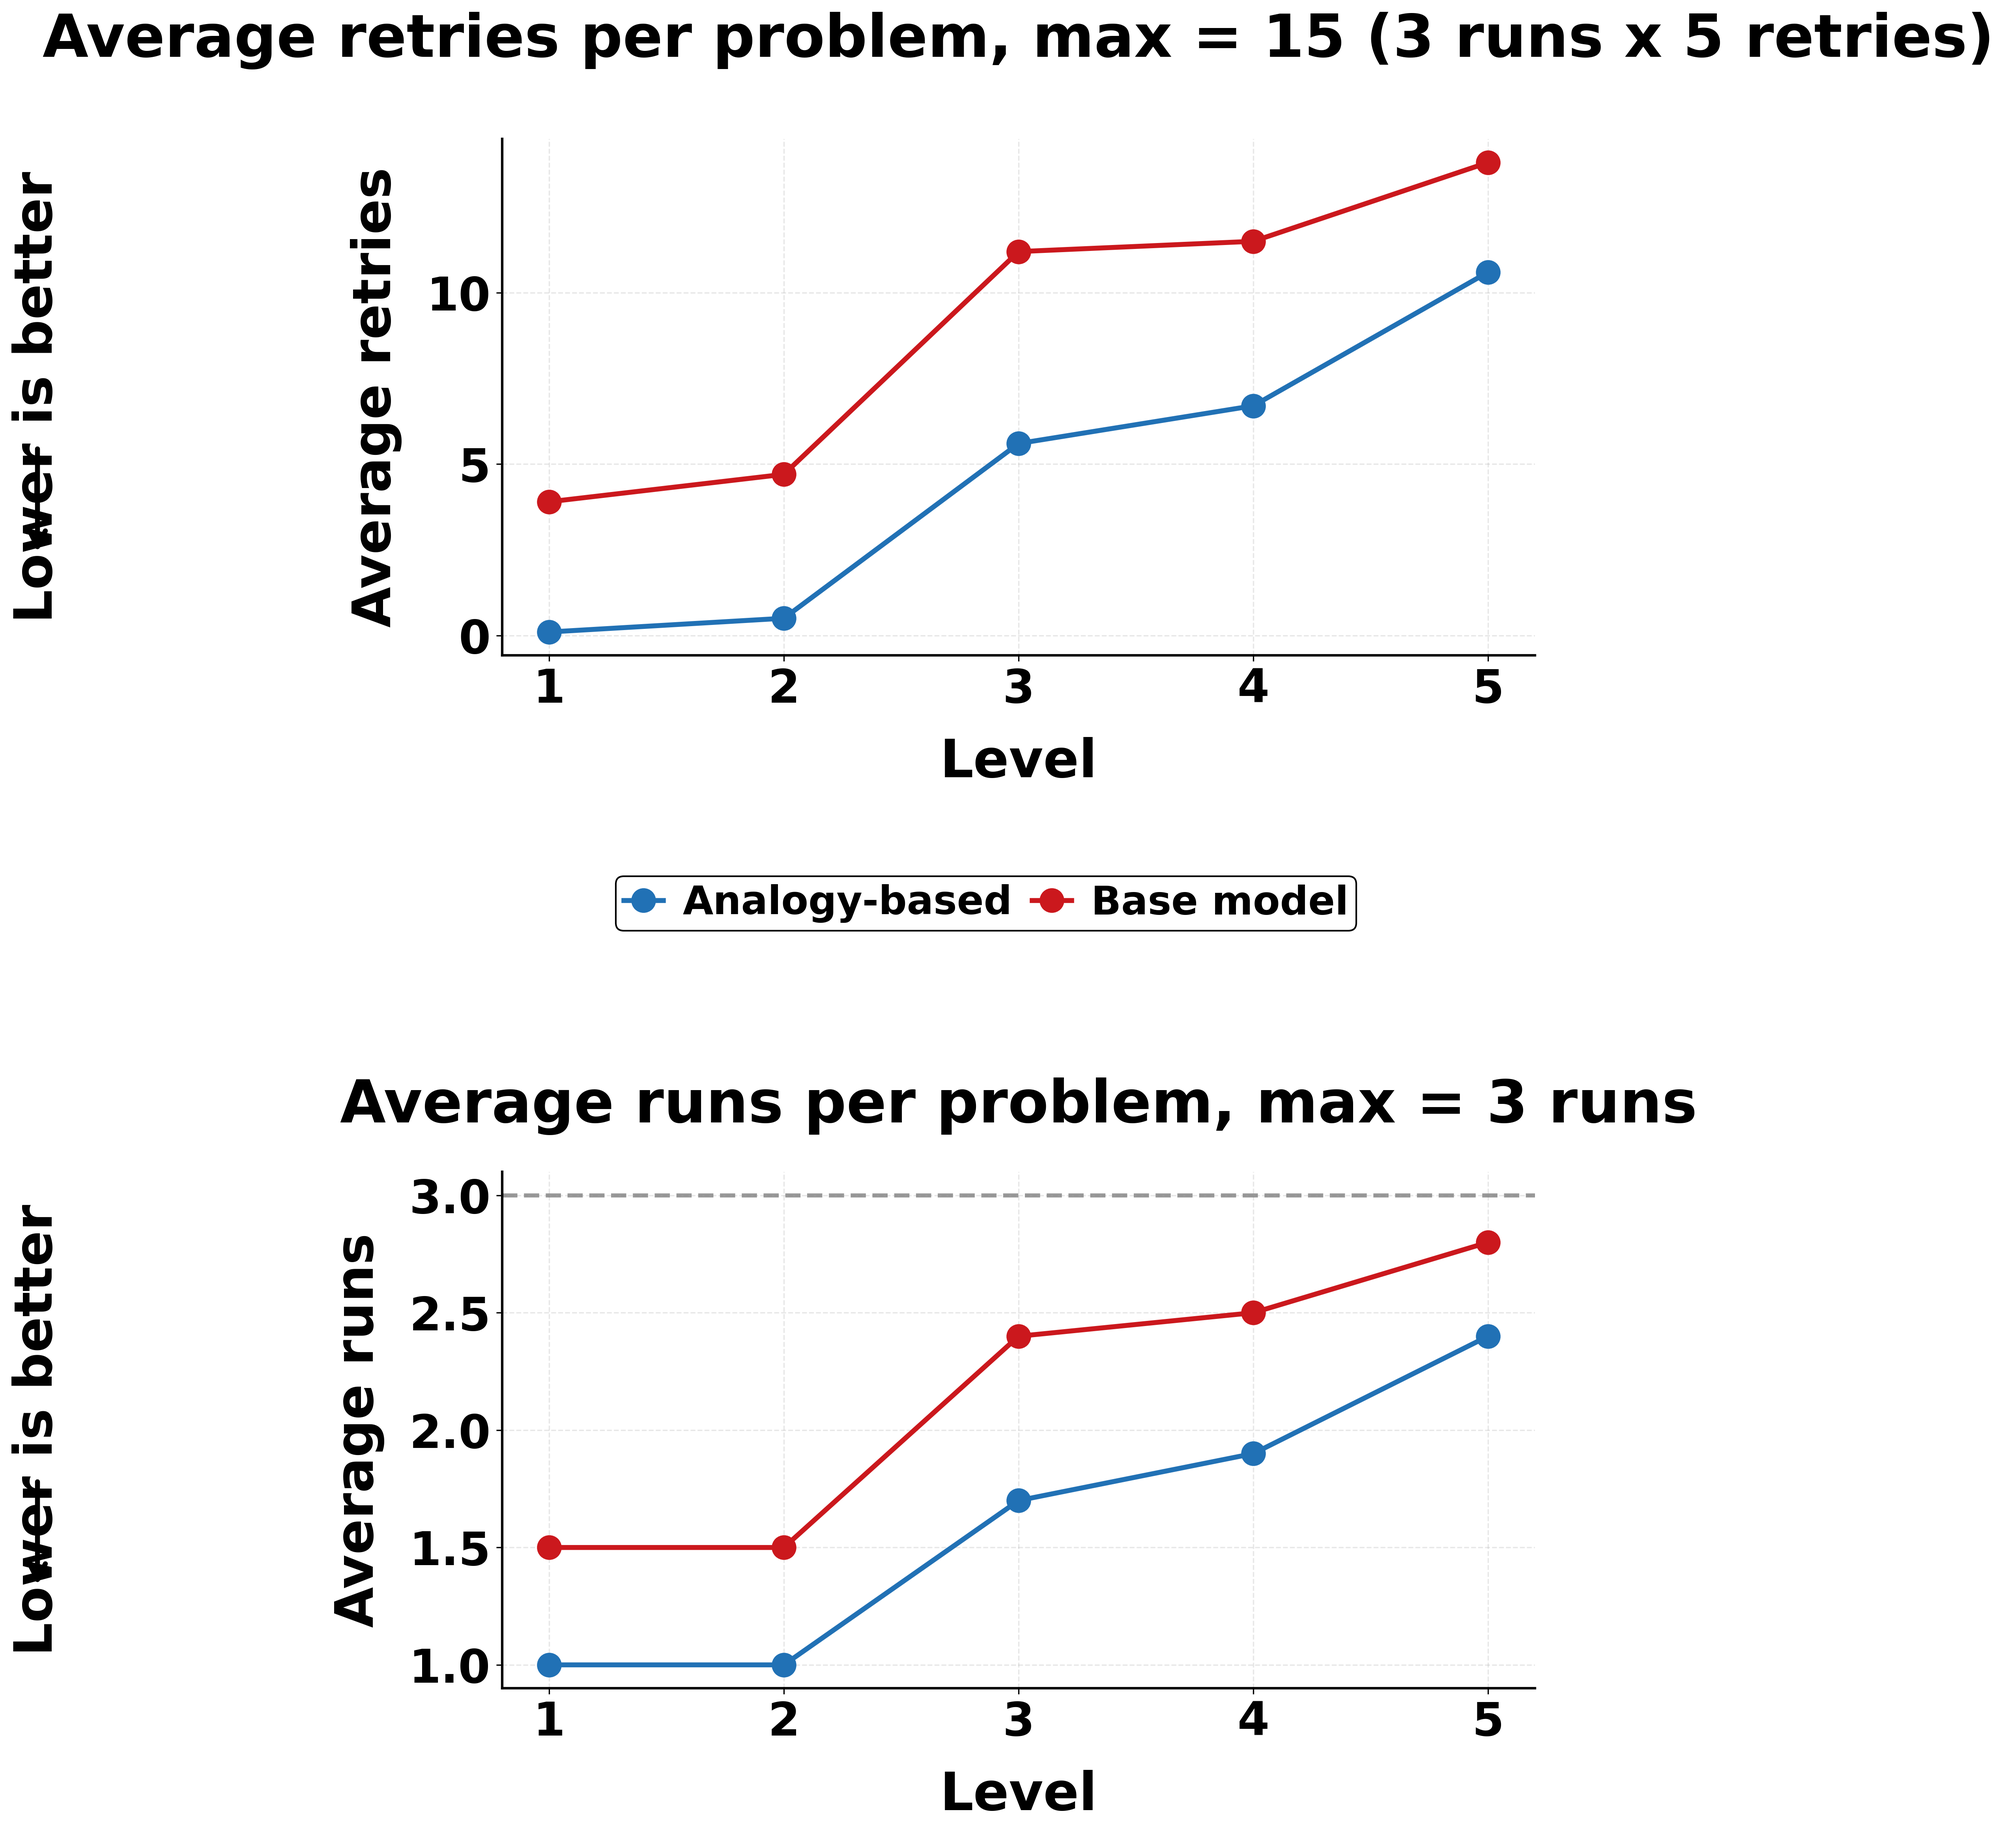
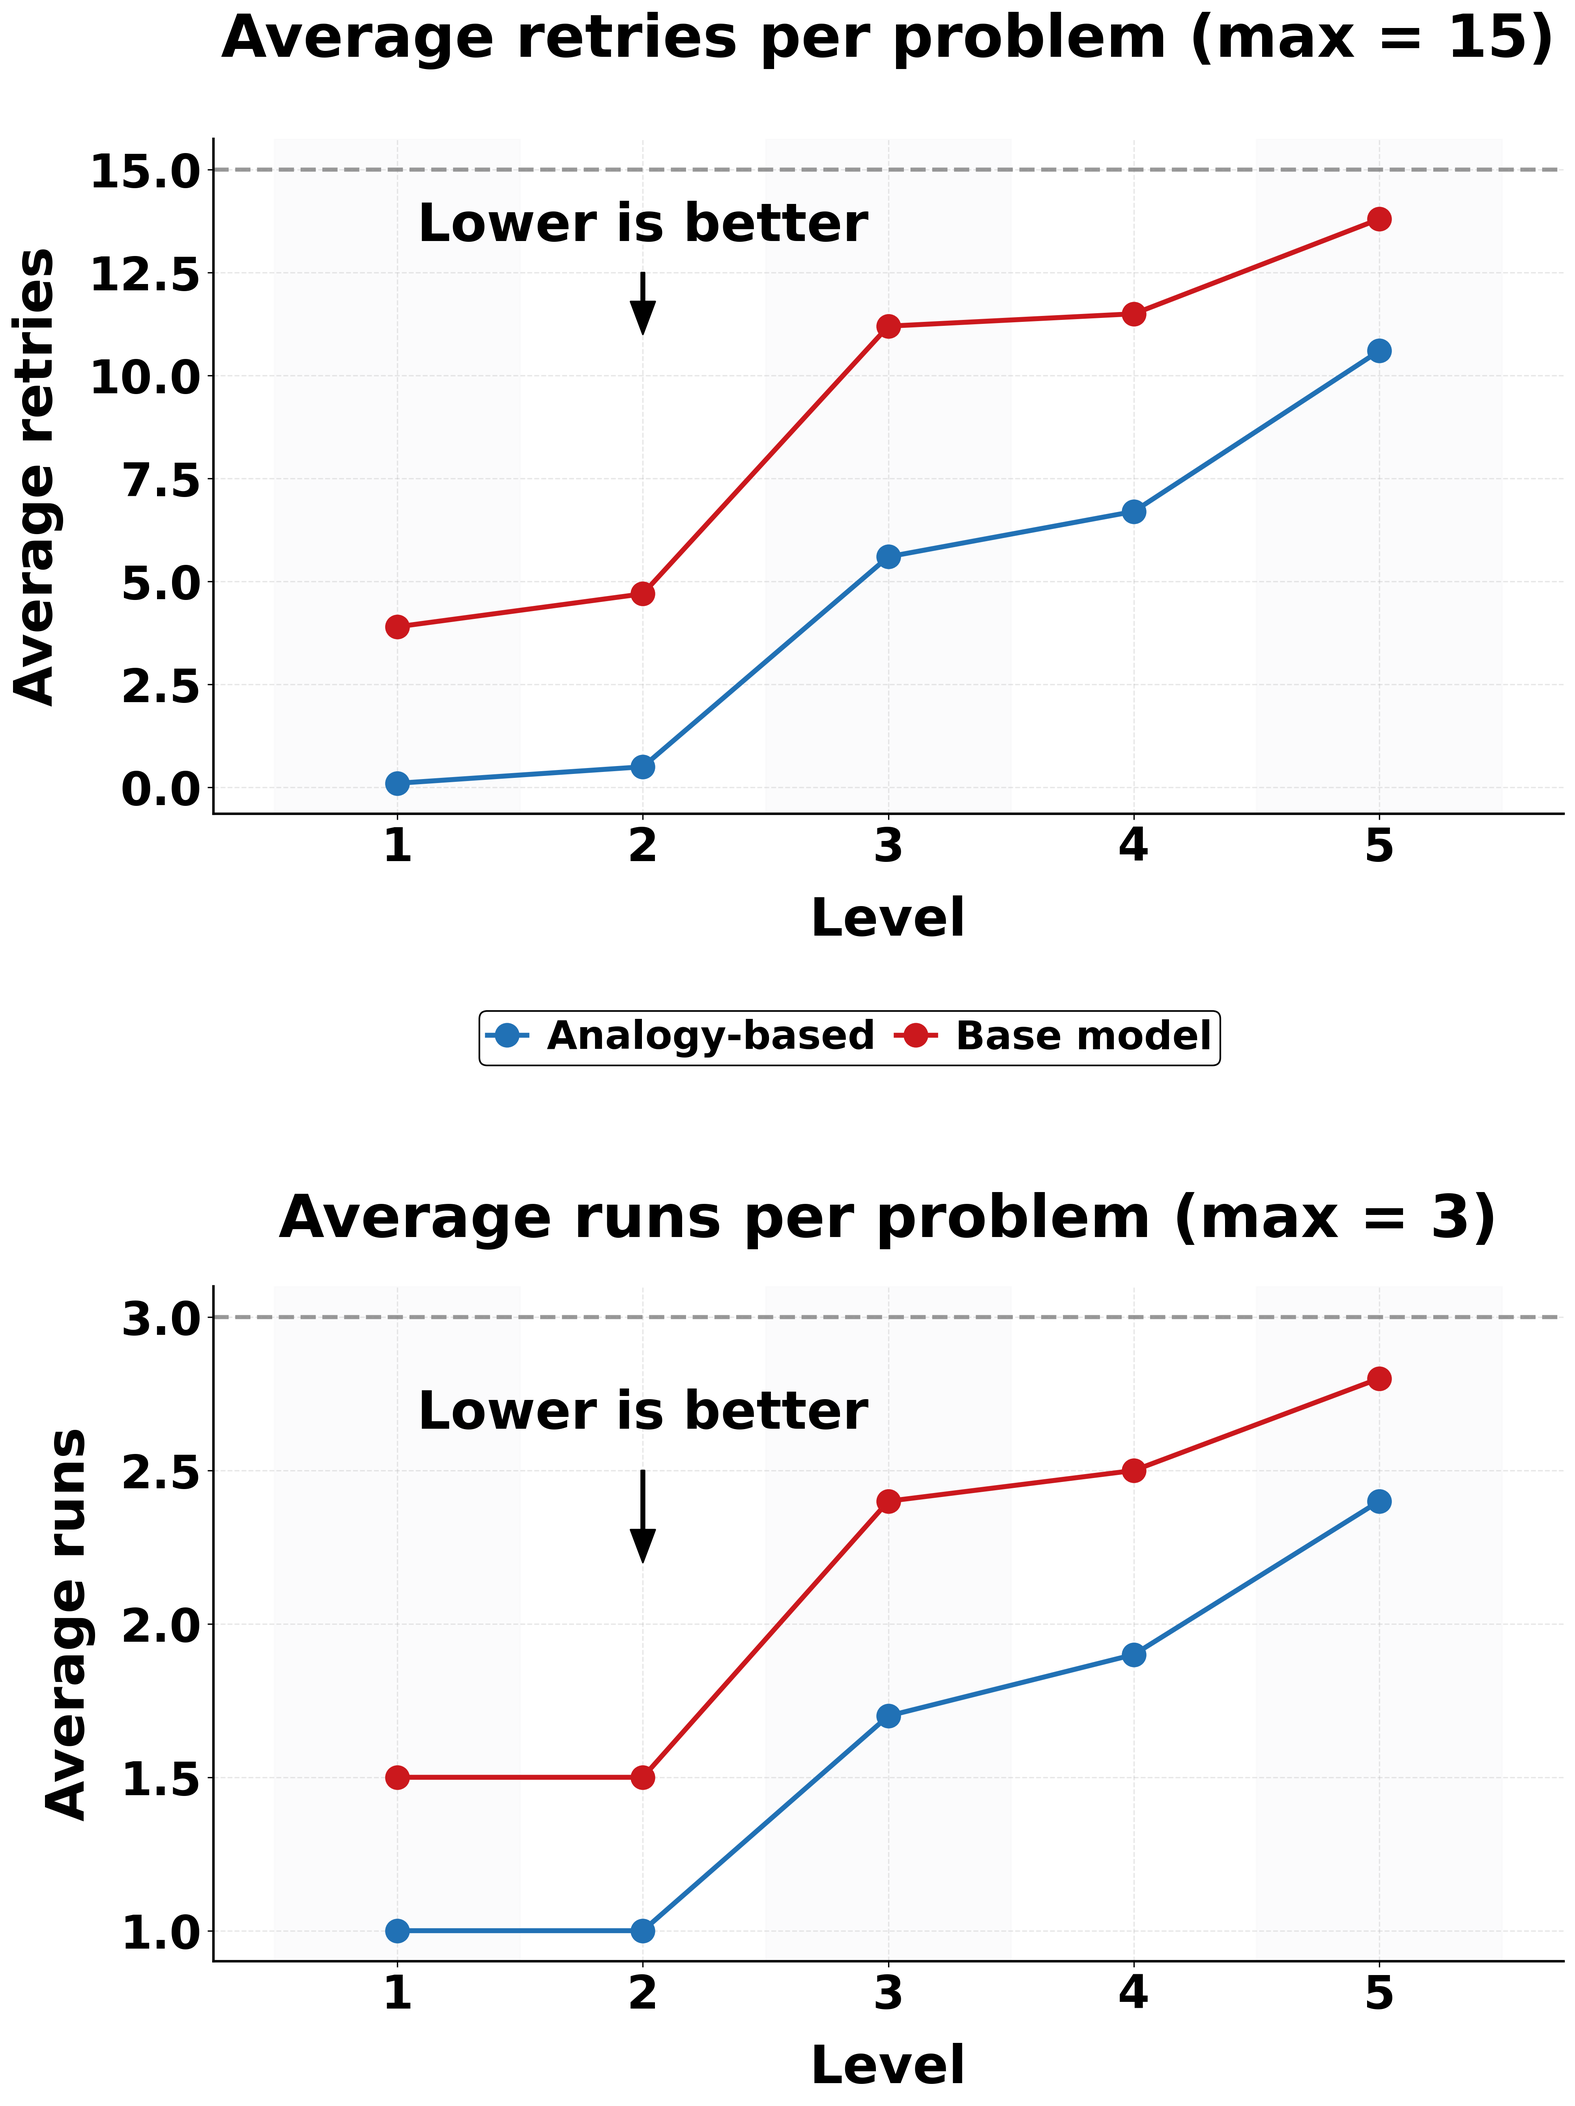
retries_and_runs plot

diff --git a/src/formalgeo/experiments/exp_new.py b/src/formalgeo/experiments/exp_new.py
@@ -462,86 +462,8 @@ def plot_ablation_study(base_path):
             # Track if this level has MRV successes
             has_mrv[variant].append(level_rates[variant]["mrv"] > 0)
 
-    # Print problem status dictionary for debugging
-    print("\nProblem Status Dictionary (Accumulated across all levels):")
-    print("=" * 50)
-    for variant, stages in problem_status.items():
-        print(f"\n{variant}:")
-        for stage, problems in stages.items():
-            print(f"  {stage.upper()}:")
-            for problem_id, status in sorted(problems.items()):
-                print(f"    Problem {problem_id}: {'Success' if status == 1 else 'Failure'}")
-
-    # Calculate and print overall success rates across all levels
-    print("\nOverall Success Rates (50 samples):")
-    print("=" * 50)
-    for variant in variants:
-        variant_key = "analogy_based" if "analogy" in variant else "random"
-        total_problems = len(problem_status[variant_key]["ft"])
-        successful_problems = sum(
-            1 for status in problem_status[variant_key]["ft_union_frv_union_mrv"].values() if status == 1)
-        overall_rate = (successful_problems / total_problems) * 100
-        print(f"\n{variant}:")
-        print(f"  Total problems: {total_problems}")
-        print(f"  Successful problems: {successful_problems}")
-        print(f"  Overall success rate: {overall_rate:.1f}%")
-
-        # Print successful problem IDs
-        successful_ids = [pid for pid, status in problem_status[variant_key]["ft_union_frv_union_mrv"].items() if
-                          status == 1]
-        print(f"  Successful problem IDs: {sorted(successful_ids)}")
-
-    # Perform McNemar tests for the two specific comparisons
-    print("\nPerforming McNemar Tests:")
-    print("=" * 50)
-
-    # First test: analogy-based first try vs random first try
-    print("\nTest 1: Analogy-based First Try vs Random First Try")
-    print("-" * 50)
-    ft_vs_random_test = {
-        "analogy_based": {"test": problem_status["analogy_based"]["ft"]},
-        "random": {"test": problem_status["random"]["ft"]}
-    }
-    ft_vs_random_p_value = perform_mcnemar_test(ft_vs_random_test, "test", base_path)
-
-    # Second test: analogy-based multiple runs with retries vs random first try
-    print("\nTest 2: Analogy-based Multiple Runs with Retries vs Random First Try")
-    print("-" * 50)
-    mrv_vs_random_test = {
-        "analogy_based": {"test": problem_status["analogy_based"]["ft_union_frv_union_mrv"]},
-        "random": {"test": problem_status["random"]["ft"]}
-    }
-    mrv_vs_random_p_value = perform_mcnemar_test(mrv_vs_random_test, "test", base_path)
-
-    # Third test: analogy-based first run with retries vs random first try
-    print("\nTest 3: Analogy-based First Run with Retries vs Random First Try")
-    print("-" * 50)
-    frv_vs_random_test = {
-        "analogy_based": {"test": problem_status["analogy_based"]["ft_union_frv"]},
-        "random": {"test": problem_status["random"]["ft"]}
-    }
-    frv_vs_random_p_value = perform_mcnemar_test(frv_vs_random_test, "test", base_path)
-
-    # Fourth test: analogy-based first run with retries vs random first run with retries
-    print("\nTest 4: Analogy-based First Run with Retries vs Random First Run with Retries")
-    print("-" * 50)
-    frv_vs_frv_test = {
-        "analogy_based": {"test": problem_status["analogy_based"]["ft_union_frv"]},
-        "random": {"test": problem_status["random"]["ft_union_frv"]}
-    }
-    frv_vs_frv_p_value = perform_mcnemar_test(frv_vs_frv_test, "test", base_path)
-
-    # Fifth test: analogy-based multiple runs with retries vs random multiple runs with retries
-    print("\nTest 5: Analogy-based Multiple Runs with Retries vs Random Multiple Runs with Retries")
-    print("-" * 50)
-    mrv_vs_mrv_test = {
-        "analogy_based": {"test": problem_status["analogy_based"]["ft_union_frv_union_mrv"]},
-        "random": {"test": problem_status["random"]["ft_union_frv_union_mrv"]}
-    }
-    mrv_vs_mrv_p_value = perform_mcnemar_test(mrv_vs_mrv_test, "test", base_path)
-
     # Create the plot
-    plt.figure(figsize=(26, 20))  # Increased width from 22 to 26
+    fig = plt.figure(figsize=(26, 20))  # Increased width from 22 to 26
 
     # Set font sizes and style
     plt.rcParams['font.size'] = 24
@@ -1627,6 +1549,13 @@ def plot_tier_error_distribution(error_analysis, base_path):
     # Adjust layout with space for legend at bottom
     plt.tight_layout(rect=[0, 0.1, 1, 0.95])  # Adjusted to make room for legend at bottom
 
+    # Make left and bottom spines thicker
+    plt.gca().spines['left'].set_linewidth(1.5)
+    plt.gca().spines['bottom'].set_linewidth(1.5)
+
+    # Adjust layout with more padding
+    plt.tight_layout(pad=2.0)
+
     # Save the plot
     plt.savefig(os.path.join(base_path, 'tier_error_distribution.png'),
                 dpi=300, bbox_inches='tight', facecolor='white')
@@ -1704,45 +1633,34 @@ def plot_retries_and_runs(base_path):
             retries_data[variant].append(level_data[level][variant]["avg_retries"])
             runs_data[variant].append(level_data[level][variant]["avg_runs"])
 
-    # Print detailed statistics
-    print("\nDetailed Retries and Runs Statistics:")
-    print("=" * 50)
-    for level in levels:
-        print(f"\nLevel {level}:")
-        print("-" * 30)
-        for variant in variants:
-            data = level_data[level][variant]
-            print(f"\n{variant}:")
-            print(f"  Total problems with runs: {data['problem_count']}")
-            print(f"  Problems with runs: {sorted(data['problems_with_runs'])}")
-            print(f"  Total retries: {data['total_retries']}")
-            print(f"  Total runs: {data['total_runs']}")
-            print(f"  Average retries per problem: {data['avg_retries']:.2f}")
-            print(f"  Average runs per problem: {data['avg_runs']:.2f}")
-
-    # Calculate and print overall averages
-    print("\nOverall Averages Across All Levels:")
-    print("=" * 50)
-    for variant in variants:
-        variant_name = variant.replace("variant_", "").replace("_model_o1", "")
-        avg_retries = sum(retries_data[variant]) / len(retries_data[variant])
-        avg_runs = sum(runs_data[variant]) / len(runs_data[variant])
-
-        print(f"\n{variant_name}:")
-        print(f"  Average retries across all levels: {avg_retries:.2f}")
-        print(f"  Average runs across all levels: {avg_runs:.2f}")
-        print(f"  Retries per level: {[f'{x:.2f}' for x in retries_data[variant]]}")
-        print(f"  Runs per level: {[f'{x:.2f}' for x in runs_data[variant]]}")
-
     # Create figure with two subplots - make it wider to accommodate legend
-    fig = plt.figure(figsize=(22, 17), facecolor='white')  # Increased size to match other plots
-    gs = plt.GridSpec(3, 1, height_ratios=[4, 1, 4], hspace=0.5)
+    fig = plt.figure(figsize=(26, 20), facecolor='white')  # Increased width to match other plots
+    gs = plt.GridSpec(3, 1, height_ratios=[4, 1, 4], hspace=0.3)  # Reduced hspace from 0.5 to 0.3
     ax1 = fig.add_subplot(gs[0])  # Top subplot
     ax2 = fig.add_subplot(gs[2])  # Bottom subplot
 
     # Set the same aspect ratio and dimensions for both plots
-    ax1.set_box_aspect(1 / 2.0)  # Changed from 1/1.6 to 1/2.0 to make plots wider
-    ax2.set_box_aspect(1 / 2.0)  # Use same ratio for both plots
+    ax1.set_box_aspect(1 / 2.0)
+    ax2.set_box_aspect(1 / 2.0)
+
+    # Add "Lower is better" text with arrow for both plots - inside the plots
+    # For the top subplot (retries)
+    ax1.text(2.0, 13, 'Lower is better', fontsize=32, fontweight='bold', 
+             ha='center', va='bottom')
+    ax1.annotate('', xy=(2.0, 11), xytext=(2.0, 12.5),
+                 arrowprops=dict(facecolor='black', width=2, headwidth=15, headlength=20))
+
+    # For the bottom subplot (runs)
+    ax2.text(2.0, 2.6, 'Lower is better', fontsize=32, fontweight='bold',
+             ha='center', va='bottom')
+    ax2.annotate('', xy=(2.0, 2.2), xytext=(2.0, 2.5),
+                 arrowprops=dict(facecolor='black', width=2, headwidth=15, headlength=20))
+
+    # Add light gray background to alternate between levels
+    for i in range(len(levels)):
+        if i % 2 == 0:
+            ax1.axvspan(i+0.5, i+1.5, color='#f8f9fa', alpha=0.5)
+            ax2.axvspan(i+0.5, i+1.5, color='#f8f9fa', alpha=0.5)
 
     # Colors for variants
     variant_colors = {
@@ -1786,18 +1704,15 @@ def plot_retries_and_runs(base_path):
     ax1.set_xlabel('Level', fontsize=32, labelpad=15, fontweight='bold')
     ax1.set_ylabel('Average retries', fontsize=32, labelpad=15, fontweight='bold')
     ax1.set_title(
-        'Average retries per problem; max = 15 (3 runs x 5 retries):\nLower for our analogy-based method, increasing with level',
+        'Average retries per problem (max = 15)',
         fontsize=36, pad=50, fontweight='bold')
     ax1.grid(True, linestyle='--', alpha=0.3)
 
     # Add horizontal dashed line at y=15
     ax1.axhline(y=15, color='gray', linestyle='--', alpha=0.8, linewidth=2.5)
 
-    # Ensure 15 appears on y-axis and make numbers bold
-    yticks = list(ax1.get_yticks())
-    if 15 not in yticks:
-        yticks = sorted(yticks + [15])
-        ax1.set_yticks(yticks)
+    # Set specific y-axis ticks
+    ax1.set_yticks([0, 2.5, 5.0, 7.5, 10.0, 12.5, 15.0])
 
     # Make y-axis numbers bold and bigger
     ax1.tick_params(axis='y', which='major', labelsize=28)
@@ -1820,7 +1735,7 @@ def plot_retries_and_runs(base_path):
     # Customize runs subplot
     ax2.set_xlabel('Level', fontsize=32, labelpad=15, fontweight='bold')
     ax2.set_ylabel('Average runs', fontsize=32, labelpad=15, fontweight='bold')
-    ax2.set_title('Average runs per problem; max = 3 runs:\nLower for our analogy-based method, increasing with level',
+    ax2.set_title('Average runs per problem (max = 3)',
                   fontsize=36, pad=30, fontweight='bold')
     ax2.grid(True, linestyle='--', alpha=0.3)
 
@@ -1867,4 +1782,5 @@ if __name__ == "__main__":
     calculate_analogy_stability(base_path)
     analyze_answer_correctness(base_path, problem_status)
     error_analysis = analyze_errors(base_path)
+    plot_retries_and_runs(base_path)
     print(1)
